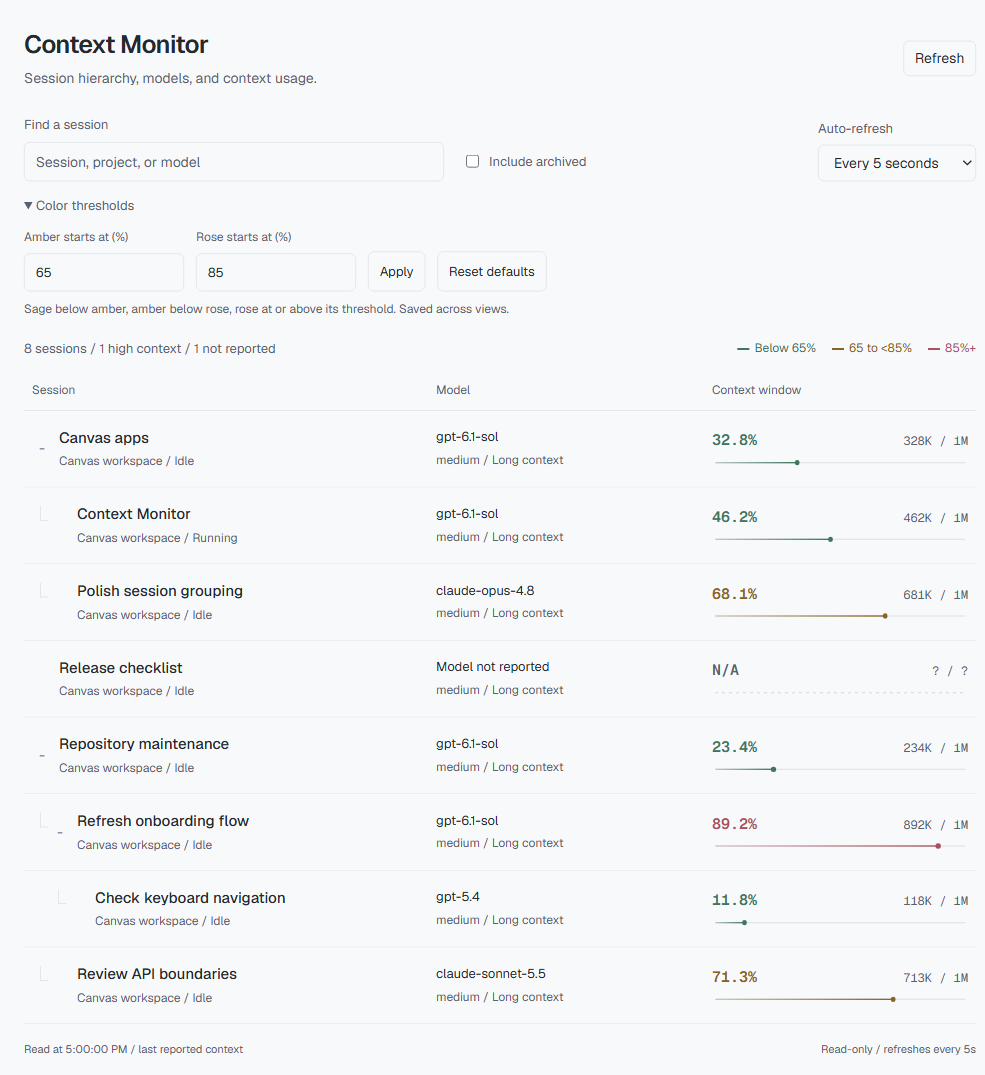
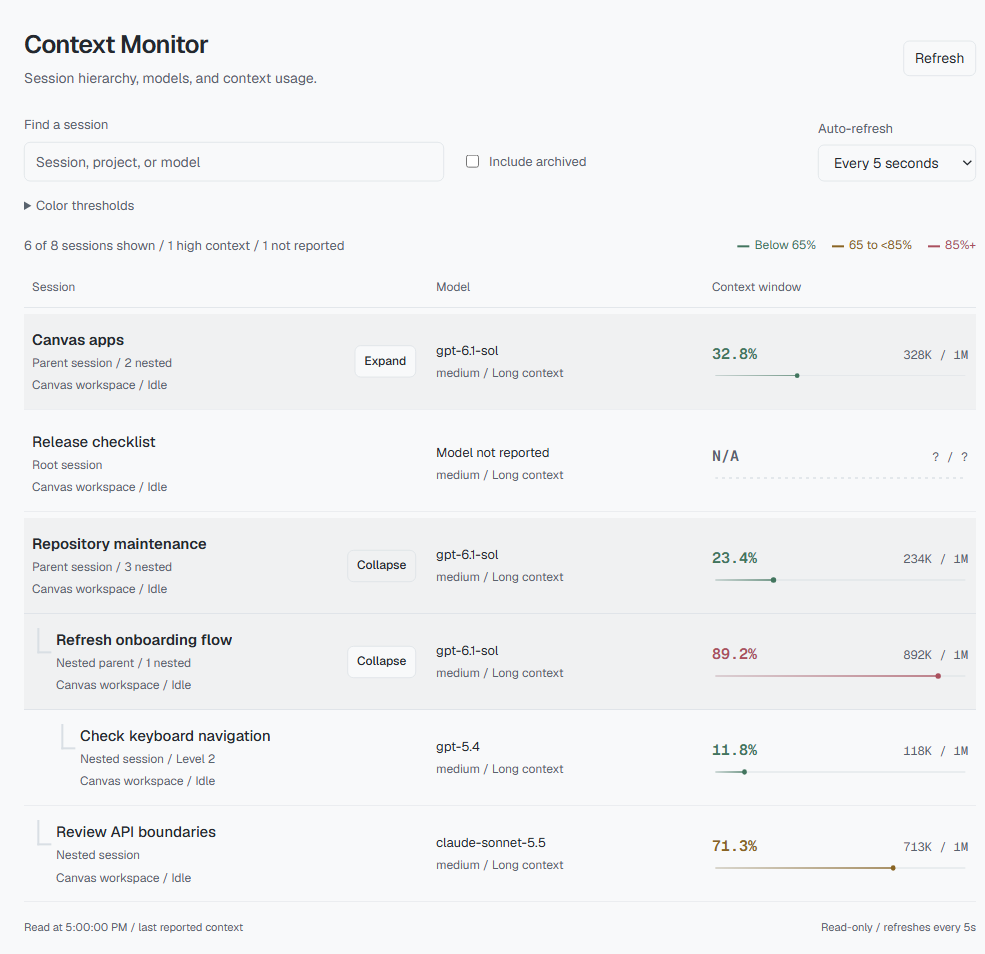
Make Context Monitor parent and nested session hierarchy explicit
Copilot-Session: 00babc8b-3aa2-4873-a4ea-72e82f7c85ed

diff --git a/apps/context-monitor/app.js b/apps/context-monitor/app.js
@@ -18,6 +18,7 @@ const resetThresholds = document.getElementById("reset-thresholds");
 const thresholdStatus = document.getElementById("threshold-status");
 const collapsed = new Set();
 const expanded = new Set();
+const initializedParents = new Set();
 let snapshot = null;
 let loading = false;
 let timer;
@@ -109,20 +110,13 @@ function toggle(set, id) {
 }
 
 function sessionRow(session) {
-    const container = element("article", "session");
+    const isParent = session.descendantCount > 0;
+    const isOpen = !collapsed.has(session.id) || Boolean(search.value.trim());
+    const container = element("article",
+        `session${session.depth ? " is-nested" : " is-root"}${isParent ? " is-parent" : ""}${isParent && isOpen ? " is-expanded" : ""}`);
     const row = element("div", "session-row");
     row.style.setProperty("--depth", session.depth);
     const identity = element("div", `identity${session.depth ? " nested" : ""}`);
-    if (session.childCount) {
-        const fold = element("button", "fold", collapsed.has(session.id) && !search.value.trim() ? "+" : "-");
-        fold.type = "button";
-        fold.dataset.action = "fold";
-        fold.dataset.id = session.id;
-        fold.setAttribute("aria-label", `Toggle children of ${session.name}`);
-        fold.setAttribute("aria-expanded", String(!collapsed.has(session.id) || Boolean(search.value.trim())));
-        fold.disabled = Boolean(search.value.trim());
-        identity.append(fold);
-    } else identity.append(element("span", "fold-space"));
     const nameBlock = element("div", "name-block");
     const name = element("button", "name", session.name);
     name.type = "button";
@@ -131,11 +125,29 @@ function sessionRow(session) {
     name.dataset.id = session.id;
     name.setAttribute("aria-expanded", String(expanded.has(session.id)));
     name.setAttribute("aria-controls", `details-${session.id}`);
-    nameBlock.append(name, element("div", "meta", [
+    const hierarchy = session.depth
+        ? isParent ? "Nested parent" : "Nested session"
+        : isParent ? "Parent session" : "Root session";
+    const hierarchyLabel = element("div", "hierarchy-label", [
+        hierarchy, isParent ? `${session.descendantCount} nested` : session.depth > 1 ? `Level ${session.depth}` : null,
+    ].filter(Boolean).join(" / "));
+    nameBlock.append(name, hierarchyLabel, element("div", "meta", [
         session.project || (session.kind === "general_chat" ? "Chat" : "Session"),
         session.archived ? "Archived" : session.running === null ? "Status not reported" : session.running ? "Running" : "Idle",
     ].join(" / ")));
     identity.append(nameBlock);
+    if (isParent) {
+        const fold = element("button", "fold", isOpen ? "Collapse" : "Expand");
+        fold.type = "button";
+        fold.dataset.action = "fold";
+        fold.dataset.id = session.id;
+        fold.setAttribute("aria-label", `${isOpen ? "Collapse" : "Expand"} nested sessions under ${session.name}`);
+        fold.setAttribute("aria-expanded", String(isOpen));
+        fold.setAttribute("aria-controls", `children-${session.id}`);
+        fold.disabled = Boolean(search.value.trim());
+        fold.title = search.value.trim() ? "Clear search to expand or collapse this branch." : `${session.descendantCount} nested sessions`;
+        identity.append(fold);
+    }
     const modelBlock = element("div", "model-block");
     const model = element("div", "model", session.model || "Model not reported");
     model.title = session.model || "Model not reported";
@@ -190,17 +202,38 @@ function render() {
     document.getElementById("legend-watch").textContent = `${thresholds.watch} to <${thresholds.high}%`;
     document.getElementById("legend-high").textContent = `${thresholds.high}%+`;
     const active = sessions.filter((session) => archived.checked || !session.archived);
+    for (const session of visibleTree(sessions, { includeArchived: archived.checked })) {
+        if (session.depth === 0 && session.descendantCount && !initializedParents.has(session.id)) {
+            initializedParents.add(session.id);
+            collapsed.add(session.id);
+        }
+    }
     const visible = visibleTree(sessions, { search: search.value, includeArchived: archived.checked, collapsed });
     const high = active.filter((session) => session.context.level === "high").length;
     const missing = active.filter((session) => session.context.level === "unknown").length;
-    count.textContent = `${active.length} sessions / ${high} high context${missing ? ` / ${missing} not reported` : ""}`;
+    count.textContent = `${visible.length} of ${active.length} sessions shown / ${high} high context${missing ? ` / ${missing} not reported` : ""}`;
     const fragment = document.createDocumentFragment();
     if (!visible.length) {
         const empty = element("div", "empty");
         empty.append(element("strong", "", search.value.trim() ? "No matching sessions" : "No sessions yet"),
             element("span", "", search.value.trim() ? "Try another session, project, or model." : "Start a session in the Copilot app, then refresh."));
         fragment.append(empty);
-    } else for (const session of visible) fragment.append(sessionRow(session));
+    } else {
+        const groups = new Map();
+        for (const session of visible) {
+            const article = sessionRow(session);
+            (session.depth ? groups.get(session.parentId) : fragment).append(article);
+            if (session.descendantCount) {
+                const children = element("div", "session-children");
+                children.id = `children-${session.id}`;
+                children.hidden = collapsed.has(session.id) && !search.value.trim();
+                children.setAttribute("role", "group");
+                children.setAttribute("aria-label", `Nested sessions under ${session.name}`);
+                article.append(children);
+                groups.set(session.id, children);
+            }
+        }
+    }
     const focused = document.activeElement;
     const focusId = focused?.dataset.id;
     const focusAction = focused?.dataset.action;

diff --git a/apps/context-monitor/style.css b/apps/context-monitor/style.css
@@ -71,13 +71,20 @@ input::placeholder { color: var(--muted); opacity: 1; }
 .column-head, .session-row { display: grid; grid-template-columns: minmax(0, 1.5fr) minmax(0, 1fr) minmax(160px, 1fr); gap: 20px; align-items: center; }
 .column-head { border-bottom: 1px solid var(--edge); padding: 10px 8px; font-size: 12px; color: var(--muted); }
 .session { border-bottom: 1px solid color-mix(in srgb, var(--edge) 55%, transparent); }
-.session-row { min-height: 76px; padding: 14px 8px; }
+.session-row { --indent: min(calc(var(--depth) * 24px), 144px); min-height: 90px; padding: 14px 8px; }
+.session.is-root { margin-top: 6px; }
+.session.is-parent > .session-row { background: var(--hover); }
+.session.is-parent > .session-row .name { font-weight: 600; }
+.session.is-expanded > .session-row { border-bottom: 1px solid var(--edge); }
+.session-children[hidden] { display: none; }
+.session-children > .session:last-child { border-bottom: 0; }
 .session-row:hover { background: var(--hover); }
-.identity { min-width: 0; padding-left: min(calc(var(--depth) * 18px), 144px); display: flex; gap: 7px; align-items: center; position: relative; }
-.identity.nested::before { content: ""; width: 8px; height: 14px; border-left: 1px solid var(--edge); border-bottom: 1px solid var(--edge); position: absolute; left: calc(min(calc(var(--depth) * 18px), 144px) - 10px); top: 4px; }
-.fold { width: 20px; height: 24px; flex: 0 0 20px; padding: 0; border: 0; color: var(--muted); }
-.fold-space { width: 20px; flex: 0 0 20px; }
-.name-block { min-width: 0; }
+.identity { min-width: 0; padding-left: var(--indent); display: flex; flex-wrap: wrap; gap: 8px 12px; align-items: center; position: relative; }
+.identity.nested::before { content: ""; width: 12px; height: 23px; border-left: 2px solid var(--edge); border-bottom: 2px solid var(--edge); position: absolute; left: calc(var(--indent) - 19px); top: 0; }
+.fold { min-height: 32px; flex: 0 0 auto; padding: 4px 9px; font-size: 12px; font-weight: 500; }
+.fold:disabled { cursor: default; }
+.name-block { min-width: 0; flex: 1 1 130px; }
+.hierarchy-label { color: var(--muted); font-size: 12px; margin-top: 2px; }
 .name { display: block; max-width: 100%; overflow: hidden; text-overflow: ellipsis; text-align: left; border: 0; padding: 0; font-size: 15px; font-weight: 500; background: transparent; }
 .name:hover { background: transparent; text-decoration: underline; text-underline-offset: 3px; }
 .meta, .model-note { font-size: 12px; color: var(--muted); margin-top: 3px; overflow: hidden; text-overflow: ellipsis; white-space: nowrap; }
@@ -99,14 +106,14 @@ input::placeholder { color: var(--muted); opacity: 1; }
 .notice { padding: 12px 0; color: var(--rose); font-size: 13px; }
 .empty { text-align: center; padding: 45px 16px; color: var(--muted); }
 .empty strong { color: var(--ink); display: block; margin-bottom: 6px; font-weight: 500; }
-.skeleton { height: 76px; border-bottom: 1px solid var(--edge); background: linear-gradient(90deg, var(--hover) 0 34%, transparent 34% 42%, var(--hover) 42% 63%, transparent 63% 72%, var(--hover) 72%); background-size: 100% 16px; background-repeat: no-repeat; background-position: center; }
+.skeleton { height: 90px; border-bottom: 1px solid var(--edge); background: linear-gradient(90deg, var(--hover) 0 34%, transparent 34% 42%, var(--hover) 42% 63%, transparent 63% 72%, var(--hover) 72%); background-size: 100% 16px; background-repeat: no-repeat; background-position: center; }
 footer { display: flex; justify-content: space-between; gap: 10px; flex-wrap: wrap; color: var(--muted); font-size: 11px; padding-top: 16px; }
 @media (max-width: 680px) {
     main { padding: 20px 16px 16px; }
     .column-head { display: none; }
-    .session-row { grid-template-columns: minmax(0, 1fr) 160px; gap: 6px 12px; }
+    .session-row { --indent: min(calc(var(--depth) * 24px), 96px); grid-template-columns: minmax(0, 1fr) 160px; gap: 6px 12px; }
     .identity { grid-column: 1; }
-    .model-block { grid-column: 1; padding-left: calc(min(calc(var(--depth) * 18px), 144px) + 27px); }
+    .model-block { grid-column: 1; padding-left: var(--indent); }
     .context { grid-column: 2; grid-row: 1 / 3; }
     .details dl { grid-template-columns: repeat(2, minmax(0, 1fr)); }
     .toolbar { flex-wrap: wrap; gap: 8px; }
@@ -115,5 +122,5 @@ footer { display: flex; justify-content: space-between; gap: 10px; flex-wrap: wr
 }
 @media (max-width: 390px) {
     .session-row { grid-template-columns: minmax(0, 1fr); }
-    .context { grid-column: 1; grid-row: auto; padding-left: 27px; }
+    .context { grid-column: 1; grid-row: auto; padding-left: var(--indent); }
 }

diff --git a/apps/context-monitor/README.md b/apps/context-monitor/README.md
@@ -2,13 +2,15 @@
 
 ## Overview
 
-A single view of your GitHub Copilot app sessions and their context windows. Each session has one compact row with its model, last reported token usage, and a thin context line. Nested sessions sit under their parents, with collapsible branches.
+A single view of your GitHub Copilot app sessions and their context windows. Each session has one compact row with its model, last reported token usage, and a thin context line. Parents have a shaded row, a **Parent session** label, the total nested-session count, and an explicit **Expand / Collapse** button. Children are grouped directly underneath, with tree connectors, indentation, and **Nested session** or **Nested parent** labels.
+
+Top-level parent branches start collapsed. **Expand** reveals the full nested hierarchy, including grandchildren; nested parents can also be collapsed independently. Standalone sessions are labeled **Root session**. Expansion choices survive automatic refreshes and remain local to the open view.
 
 By default, muted sage means below 65% of input capacity, amber means 65% to below 85%, and rose means 85% or more. Open **Color thresholds** to change where amber and rose begin, then choose **Apply**. Use whole percentages from 0 to 100, with amber lower than rose. **Reset defaults** restores and saves 65% / 85%, including when you have unsaved edits. The legend, rows, and high-context count update together.
 
 These are visual thresholds, not predictions of when Copilot will compact a conversation. Missing telemetry is neutral and marked **N/A**, never treated as zero.
 
-Search by session, project, model, or session ID. Search keeps matching sessions' ancestors visible, even through collapsed branches. Choose a session name to inspect exact counts, input/output limits, and any system, conversation, tool, MCP, and buffer counts reported by the app. Include archived sessions with the checkbox; they are hidden initially.
+Search by session, project, model, or session ID. Search keeps matching sessions' ancestors visible, even through collapsed branches; clear search to return to your expansion choices. The nested count includes all non-archived descendants (or archived descendants too when included), regardless of search. Choose a session name to inspect exact counts, input/output limits, and any system, conversation, tool, MCP, and buffer counts reported by the app. Include archived sessions with the checkbox; they are hidden initially.
 
 ## Preview
 
